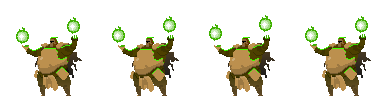
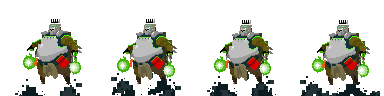
1

diff --git a/classes/player.js b/classes/player.js
@@ -7,14 +7,14 @@ class PlayerPreload extends Phaser.GameObjects.Container
         this.load = config.scene.load;
         
          //Player
-        this.load.spritesheet('p1-idle', 'assets/character/2 GraveRobber/GraveRobber_idle.png', {frameWidth: 48,frameHeight: 48,});
+        
         this.load.spritesheet('p1-death', 'assets/character/2 GraveRobber/GraveRobber_death.png', {frameWidth: 48,frameHeight: 48,});
-        this.load.spritesheet('p1-attack', 'assets/character/2 GraveRobber/GraveRobber_attack1.png', {frameWidth: 48, frameHeight: 48,})
-        this.load.spritesheet('p1-walk', 'assets/character/2 GraveRobber/GraveRobber_run.png', {frameWidth: 48, frameHeight: 48,})
-        this.load.spritesheet('p1-jump', 'assets/character/2 GraveRobber/GraveRobber_jump.png', {frameWidth: 48, frameHeight: 48,})
+        
+        this.load.spritesheet('p1-walk', 'assets/p-run.png', {frameWidth: 48, frameHeight: 48,})
+        this.load.spritesheet('p1-jump', 'assets/p-jump.png', {frameWidth: 48, frameHeight: 48,})
 
-        this.load.spritesheet('p-idle', 'assets/p-idle.png', {frameWidth: 48, frameHeight: 48,})
-        this.load.spritesheet('p-attack', 'assets/p-attack.png', {frameWidth: 48, frameHeight: 48,})
+        this.load.spritesheet('p1-idle', 'assets/p-idle.png', {frameWidth: 48, frameHeight: 48,})
+        this.load.spritesheet('p1-attack', 'assets/p-attack.png', {frameWidth: 48, frameHeight: 48,})
     }
 }
 
@@ -55,7 +55,7 @@ class PlayerCreate extends Phaser.GameObjects.Container
         //Idle
         this.anims.create({
                 key: 'p1-idle',
-                frames: this.anims.generateFrameNumbers('p-idle', { start: 0, end: 4 }),
+                frames: this.anims.generateFrameNumbers('p1-idle', { start: 0, end: 4 }),
                 frameRate: 6,
                 repeat: -1
             });
@@ -73,7 +73,7 @@ class PlayerCreate extends Phaser.GameObjects.Container
         this.anims.create(
             {
                 key: 'p1-attack',
-                frames: this.anims.generateFrameNumbers('p-attack', { start: 0, end: 5 }),
+                frames: this.anims.generateFrameNumbers('p1-attack', { start: 0, end: 6 }),
                 frameRate: 10,
             });
 
@@ -85,7 +85,7 @@ class PlayerCreate extends Phaser.GameObjects.Container
                 frameRate: 10,
             });
 
-        //Run
+        //Jump
         this.anims.create(
             {
                 key: 'p1-jump',

diff --git a/sceneMain.js b/sceneMain.js
@@ -58,7 +58,7 @@ class SceneMain extends Phaser.Scene {
         playerHpText.setText(
             ' / ' + dashVel + 
             ' / ' + dashTime +
-            ' / floarVelX ' + floatVelX + 
+            ' / floatVelX ' + floatVelX + 
             ' / ' + player.direction +  
             ' ' + this.stateMachine.state   
         );

diff --git a/main.js b/main.js
@@ -99,7 +99,7 @@ var dashTime = 20;
 var jumpTime = 30;
 var attTime = 600;
 var jumpVel = 2000;
-var moveVel = 250;
+var moveVel = 180;
 
 var floatVelX = 200;
 var floatVelY = 400;
